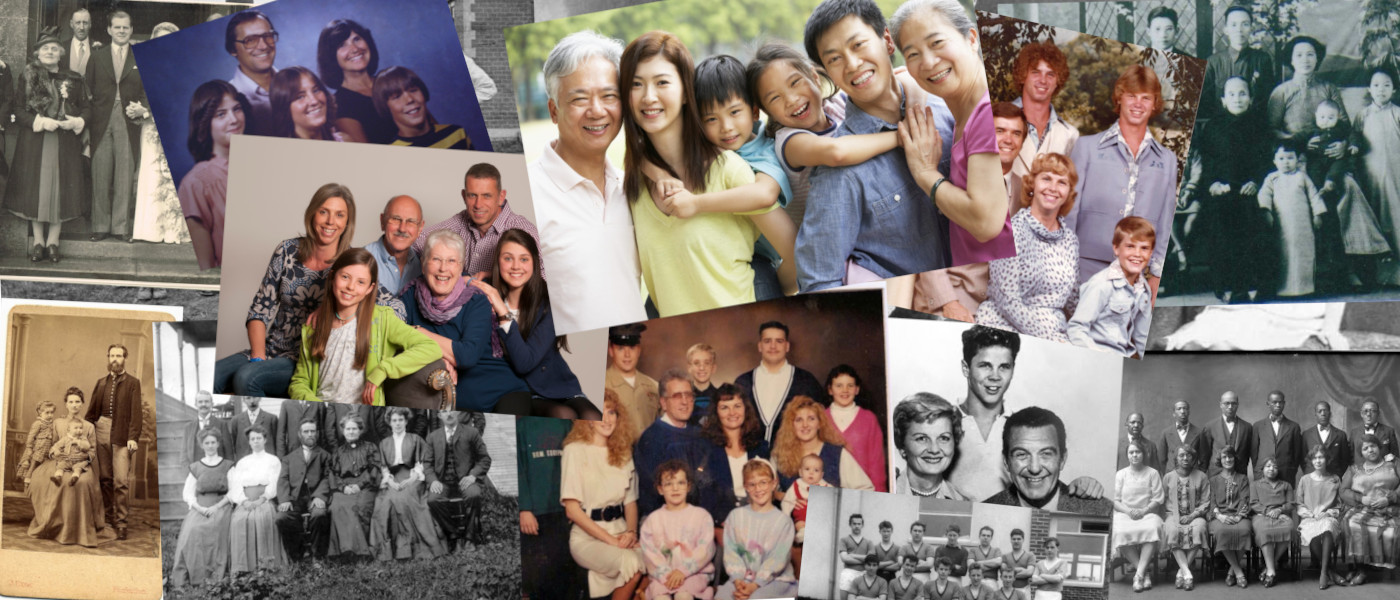
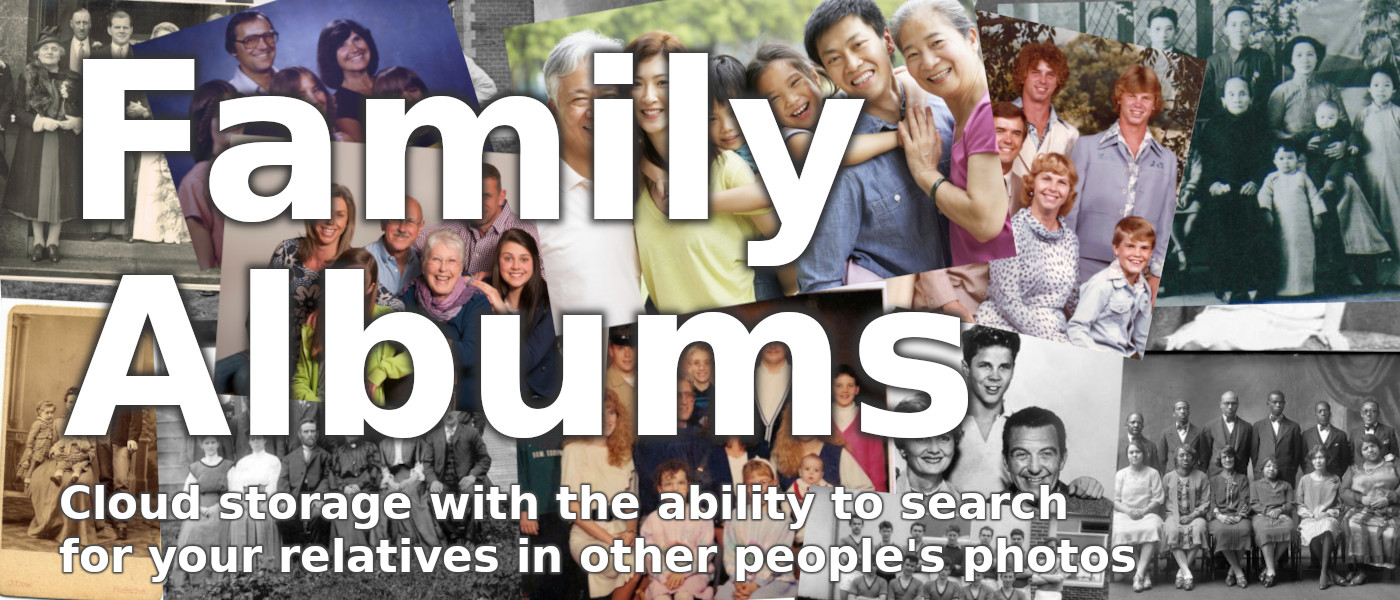
Main page and about page done

Changed region(s): [[0.0307, 0.42, 0.7064, 0.75], [0.0307, 0.06, 0.645, 0.45], [0.0307, 0.78, 0.8293, 0.99]]

diff --git a/mainapp/templates/mainapp/index.html b/mainapp/templates/mainapp/index.html
@@ -1,5 +1,62 @@
 {% extends 'mainapp/base/base.html' %}
+{% load static %}
 
 {% block content %}
-<h1>{{ title }}</h1>
+<div class="container-xxl p-0">
+    <img class="img-fluid" src="{% static 'images/main.jpg' %}" alt="">
+</div>
+
+{% if not request.user.is_authenticated %}
+<section id="greetings_new">
+    <div class="container-xxl text-center pt-4 mb-4 bg-secondary">
+        <p class="h1">Welcome!</p>
+        <p class="h4">Register and get the opportunity to store your photos in albums on this site.</p>
+        <p class="h4">Also you can search for people who are present in your photos, in the photos of other users who allowed it.</p>
+        <div class="row d-flex justify-content-evenly py-5">
+            <a href="{% url 'django_registration_register' %}" class="btn btn-primary w-25">Register</a>
+            <a href="{% url 'login' %}" class="btn btn-primary w-25">Login</a>
+        </div>
+    </div>
+</section>
+{% endif %}
+
+{% if albums %}
+<section id="recent_updates">
+<div class="container-xxl text-center my-2">
+    <h5 class="h2">Recently updated albums</h5>
+    <div class="row">
+        {% for album in albums %}
+        <div class="col-6 col-md-4 col-xl-3 p-4 d-flex align-items-stretch">
+            <div class="card p-3 w-100" style="border: 8px solid rgba(0, 0, 0, 0.35); border-radius: 4%">
+                <div class="col-12 d-flex justify-content-center">
+                    <img src="{% if album.miniature %}{{ album.miniature.original.url }}{% else %}{% static 'images/main.ico' %}{% endif %}" alt="" style="width: 100%; height: auto; max-height: 400px; object-fit: contain;">
+                </div>
+                <div class="col-12 mt-auto">
+                    <div class="text-center">
+                        <h5 class="card-title">{{ album.title }}</h5>
+                        <p class="card-text">{{ album.photos__count }} photo{% if album.photos__count > 1 %}s{% endif %}</p>
+                        {% if album.location %}
+                        <p class="card-text">{{ album.location }}
+                        {% endif %}
+                        {% if album.date_start or album.date_end %}
+                        {% if album.location %}<br>{% else %}</p><p class="card-text">{% endif %}
+                        {{ album.date_start|default_if_none:'' }} - {{ album.date_end|default_if_none:'' }}</p>
+                        {% else %}
+                        </p>
+                        {% endif %}
+                        <a href="{{ album.get_absolute_url }}" class="btn btn-primary">View Album</a>
+                        <p>
+                            <a href="{% url 'user_profile' username_slug=album.owner.username_slug %}">
+                                <small>{{ album.owner.username }}</small>
+                            </a>
+                        </p>
+                    </div>
+                </div>
+            </div>
+        </div>
+        {% endfor %}
+    </div>
+</div>
+</section>
+{% endif %}
 {% endblock %}

diff --git a/mainapp/templates/mainapp/about.html b/mainapp/templates/mainapp/about.html
@@ -1,5 +1,21 @@
 {% extends 'mainapp/base/base.html' %}
 
 {% block content %}
-<h1>{{ title }}</h1>
+{% for info in sections_info %}
+<section id="{{ info.section_id }}">
+    <div class="container-xxl text-center pt-4 mb-4">
+        <div class="row">
+            <div class="col-12 col-lg-6">
+                <img src="{{ info.img_url }}" alt="" class="img-fluid">
+            </div>
+            <div class="col-12 col-lg-6{% if info.text_first %} order-first{% endif %}">
+                <h1>{{ info.title }}</h1>
+                {% for paragraph in info.paragraphs %}
+                <p class="h3">{{ paragraph }}</p>
+                {% endfor %}
+            </div>
+        </div>
+    </div>
+</section>
+{% endfor %}
 {% endblock %}

diff --git a/accounts/templates/accounts/base/accounts_base.html b/accounts/templates/accounts/base/accounts_base.html
@@ -1,7 +1,7 @@
 {% extends 'mainapp/base/base.html' %}
 
 {% block content %}
-<div class="flex-grow-1 d-flex align-items-center" style="background-color: rgba(0, 0, 0, 0.1);">
+<div class="flex-grow-1 d-flex align-items-center bg-secondary">
     <div class="container d-flex justify-content-center">
         <div class="col-12 col-md-9 col-lg-7 col-xl-6">
             <div class="card" style="border-radius: 15px;">

diff --git a/mainapp/templates/mainapp/base/breadcrumbs.html b/mainapp/templates/mainapp/base/breadcrumbs.html
@@ -1,4 +1,4 @@
-<div style="background-color: rgba(0, 0, 0, 0.07);">
+<div class="bg-secondary">
     <div class="container-xxl pb-1">
         {% if owner_slug != request.user.username_slug %}
         >

diff --git a/staticfiles/theme.scss b/staticfiles/theme.scss
@@ -1,4 +1,5 @@
 $primary: #444444;
+$secondary: #E5E5E5;
 
 .card-photo:hover{
     background-color: rgba(0, 0, 0, 0.03);

diff --git a/mainapp/views.py b/mainapp/views.py
@@ -6,6 +6,7 @@ from django.contrib.auth.mixins import LoginRequiredMixin
 from django.core.exceptions import ObjectDoesNotExist
 from django.http import HttpResponseNotFound, Http404, HttpResponseRedirect, FileResponse, HttpResponse
 from django.shortcuts import redirect
+from django.templatetags.static import static
 from django.urls import reverse_lazy
 from django.views.generic import ListView, TemplateView, CreateView, UpdateView
 from django.views.generic.detail import SingleObjectMixin, DetailView
@@ -13,19 +14,59 @@ from django.db.models import Count
 
 from accounts.models import User
 from .forms import *
-from .utils import get_zip, delete_from_favorites, FavoritesPaginator
+from .utils import get_zip, delete_from_favorites, FavoritesPaginator, AboutPageInfo
 
 
 class MainPageView(ListView):
     model = Albums
     template_name = 'mainapp/index.html'
-    context_object_name = 'last_uploaded'
+    context_object_name = 'albums'
     extra_context = {'title': 'Main Page'}
+
+    def get_queryset(self):
+        return self.model.objects.filter(
+            is_private=False,
+            photos__isnull=False,
+        ).select_related(
+            'owner',
+        ).annotate(
+            Count('photos'),
+        ).order_by(
+            '-time_update',
+        )[:16]
 
 
 class AboutPageView(TemplateView):
     template_name = 'mainapp/about.html'
     extra_context = {'title': 'About this site', 'current_section': 'about'}
+
+    def get_context_data(self, **kwargs):
+        context = super().get_context_data(**kwargs)
+
+        general_info = AboutPageInfo(section_id="general",
+                                     text_first=False,
+                                     img_url=static('images/about.jpg'),
+                                     title="About",
+                                     paragraphs=["firsdt", "second"])
+        uploads_info = AboutPageInfo(section_id="uploads",
+                                     text_first=True,
+                                     img_url=static('images/uploads.jpg'),
+                                     title="Uploading photos",
+                                     paragraphs=["first",  "second", "last"])
+        recognition_info = AboutPageInfo(section_id="recognition",
+                                         text_first=False,
+                                         img_url=static('images/recognition.jpg'),
+                                         title="Recognition",
+                                         paragraphs=["first",  "second", "third", "last"])
+        sections_info = [general_info, uploads_info, recognition_info]
+
+        context.update({
+            'title': 'About this site',
+            'current_section': 'about',
+            'sections_info': sections_info,
+        })
+
+        return context
 
 
 def pageNotFound(request, exception):

diff --git a/mainapp/migrations/0008_alter_photos_original.py b/mainapp/migrations/0008_alter_photos_original.py
@@ -1,0 +1,20 @@
+# Generated by Django 4.1.3 on 2023-01-20 17:28
+
+from django.db import migrations
+import django_resized.forms
+import mainapp.utils
+
+
+class Migration(migrations.Migration):
+
+    dependencies = [
+        ('mainapp', '0007_alter_photos_original'),
+    ]
+
+    operations = [
+        migrations.AlterField(
+            model_name='photos',
+            name='original',
+            field=django_resized.forms.ResizedImageField(crop=None, force_format='JPEG', keep_meta=False, quality=90, scale=1.0, size=[1280, 1280], upload_to=mainapp.utils.get_photo_save_path, verbose_name='Original'),
+        ),
+    ]

diff --git a/mainapp/utils.py b/mainapp/utils.py
@@ -74,3 +74,11 @@ class TruncatingCharField(models.CharField):
             return value[:self.max_length]
         return value
 
+
+class AboutPageInfo:
+    def __init__(self, section_id, text_first, img_url, title, paragraphs):
+        self.section_id = section_id
+        self.text_first = text_first
+        self.img_url = img_url
+        self.paragraphs = paragraphs
+        self.title = title
